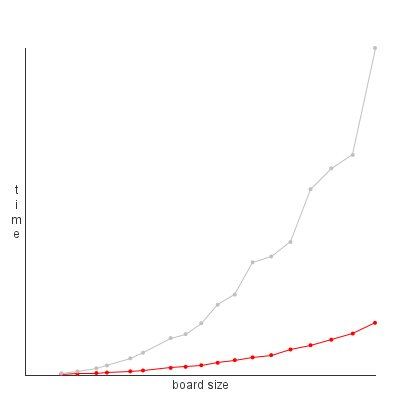
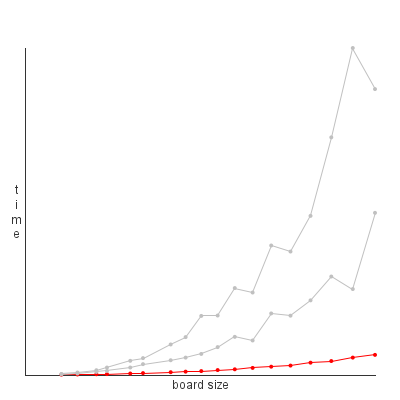
Results :)

diff --git a/FloodIt/Game.java b/FloodIt/Game.java
@@ -163,7 +163,7 @@ public class Game {
     private void batchTest() {
         List<List<Double>> allTimings = new LinkedList<>();
         List<Integer> numTiles = new LinkedList<>();
-        for (int k = 0; k != 2; ++k) {
+        for (int k = 0; k != 3; ++k) {
             String name = "flood" + (k == 0 ? "" : k);
             System.out.println("running with " + name + " as the flood function");
             List<Double> timings = new LinkedList<>();

diff --git a/FloodIt/Board.java b/FloodIt/Board.java
@@ -106,7 +106,9 @@ public class Board {
         if (k == 0)
             Flood.flood(color, flooded, tiles, size);
         else if (k == 1)
-            Flood.flood2(color, flooded, tiles, size);///was Flood.flood1
+            Flood.flood2(color, flooded, tiles, size);
+        else if(k==2)
+            Flood.flood1(color, flooded, tiles, size);
         else {
             System.out.println("We don't handle k > 1.");
             System.exit(-1);

diff --git a/FloodIt/README.md b/FloodIt/README.md
@@ -1,1 +1,2 @@
-The first function I wrote was 0(n^2) because it had for looks and the function contains which is O(n^2). It also matched up with the graph as it curves straight up. Therefore, I believe I can do better
+The first function I wrote was 0(n^2) because it had for looks and the function contains which is O(n^2). It also matched up with the graph as it curves straight up. Therefore, I believe I can do better.
+The second function I made was with an ArrayList because I thought it would be faster due to the instantaneous pull, however the contains function is still O(n^2) therefore the time complexity was still the same as the first function. I then decided to research time complexity functions and found out about hashsets and used a hashmap for my third function because the contain function is O(1) meaning the time complexity is O(n). This is shown in the map as well.
